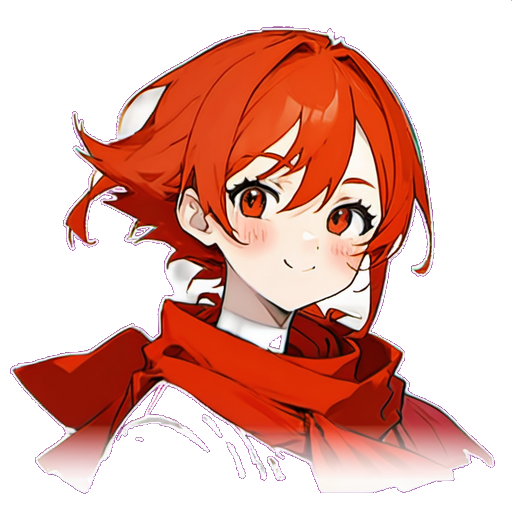
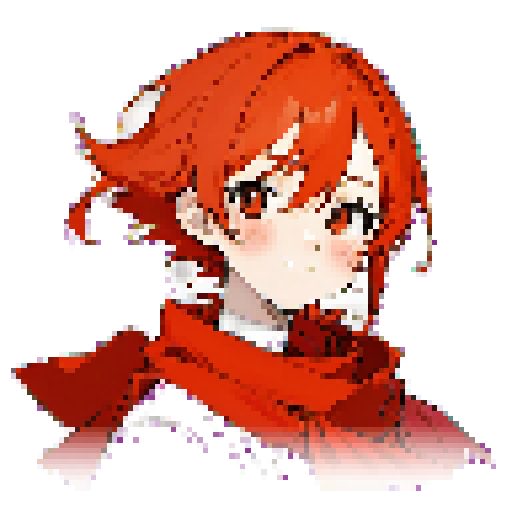
feat(kc): Phase 62-2 portrait pixelization (FIX-10)
SDXL 애니메 일러스트 포트레이트 8종과 픽셀 UI의 스타일 충돌을 단기 해소.
nearest-neighbor 리샘플링으로 96px 가상 해상도 픽셀화 (chef_sprite 92px와 유사).

- scripts/pixelize_portraits.py 신규: 512→96 nearest → 512 업샘플 → 알파 이진화
- mimi/rin/mage/yuki/lao/andre/arjun/poco 8종 적용
- 원본은 _archive/pre_pixelize_20260422_122945/ 에 백업
- 코드 변경 없음 (파일명 유지)
- 장기 과제: Phase 64 PixelLab pro 재발주 (별도 스펙)

QA: tests/screenshots/phase62-2-after/ 3장 검증.

diff --git a/scripts/pixelize_portraits.py b/scripts/pixelize_portraits.py
@@ -1,0 +1,81 @@
+"""
+Phase 62-2 — Portrait Pixelization (단기 임시처리)
+
+AD 리포트 FIX-10: 고해상도 애니메 일러스트 포트레이트 8종이 픽셀 UI와 스타일 충돌하는 문제.
+Phase 64 pro 재발주 전까지의 단기 해결책으로, nearest-neighbor 리샘플링으로
+픽셀화된 버전을 생성한다.
+
+알고리즘:
+- 512×512 원본 → 128×128 nearest 다운샘플 (가상 4×4 픽셀 효과)
+- 128×128 → 512×512 nearest 업샘플
+- 알파 채널을 128 기준으로 이진화하여 가장자리 정리
+
+입력: assets/portraits/portrait_*.png (8종)
+출력: 같은 경로에 덮어쓰기. 원본은 _archive/pre_pixelize_20260422/ 에 백업.
+"""
+
+from __future__ import annotations
+
+import shutil
+import sys
+from datetime import datetime
+from pathlib import Path
+
+from PIL import Image
+
+# 8종 캐릭터 (mimi/rin/mage/yuki/lao/andre/arjun/poco)
+PORTRAIT_IDS = ["mimi", "rin", "mage", "yuki", "lao", "andre", "arjun", "poco"]
+
+# 다운샘플 타깃 — 128이면 ×4 픽셀, 96이면 더 거칠게, 160이면 부드럽게
+# 96은 chef_sprite 92px 해상도와 유사하여 픽셀 UI와 매칭도 최상 (샘플 비교 결과)
+DOWNSCALE = 96
+ALPHA_THRESHOLD = 128
+
+
+def pixelize(src: Path, dst: Path) -> None:
+    """단일 포트레이트를 픽셀화한다."""
+    with Image.open(src) as im:
+        im = im.convert("RGBA")
+        w, h = im.size
+
+        # 다운샘플 (nearest) — 세부 표현 압축
+        small = im.resize((DOWNSCALE, DOWNSCALE), Image.NEAREST)
+        # 업샘플 (nearest) — 선명한 픽셀 블록
+        large = small.resize((w, h), Image.NEAREST)
+
+        # 알파 이진화 — 반투명 안티에일리어스 제거
+        r, g, b, a = large.split()
+        a = a.point(lambda v: 255 if v >= ALPHA_THRESHOLD else 0)
+        out = Image.merge("RGBA", (r, g, b, a))
+        out.save(dst, "PNG")
+
+
+def main() -> int:
+    root = Path(__file__).resolve().parents[1]
+    portraits_dir = root / "assets" / "portraits"
+    if not portraits_dir.exists():
+        print(f"[ERROR] {portraits_dir} not found", file=sys.stderr)
+        return 1
+
+    stamp = datetime.now().strftime("%Y%m%d_%H%M%S")
+    backup_dir = portraits_dir / "_archive" / f"pre_pixelize_{stamp}"
+    backup_dir.mkdir(parents=True, exist_ok=True)
+
+    ok = 0
+    for pid in PORTRAIT_IDS:
+        src = portraits_dir / f"portrait_{pid}.png"
+        if not src.exists():
+            print(f"[SKIP] {src.name} missing")
+            continue
+        shutil.copy2(src, backup_dir / src.name)
+        pixelize(src, src)
+        print(f"[OK] portrait_{pid}.png pixelized ({DOWNSCALE}px virtual)")
+        ok += 1
+
+    print(f"\n{ok}/{len(PORTRAIT_IDS)} portraits pixelized.")
+    print(f"Originals backed up to: {backup_dir}")
+    return 0
+
+
+if __name__ == "__main__":
+    sys.exit(main())

diff --git a/docs/PROJECT.md b/docs/PROJECT.md
@@ -1,6 +1,6 @@
 # Kitchen Chaos Tycoon 기획서
 
-> 최종 업데이트: 2026-04-22 (Phase 62 Unified Warm-Tone Pass 완료)
+> 최종 업데이트: 2026-04-22 (Phase 62-2 Portrait Pixelization 완료)
 
 ## 프로젝트 개요
 
@@ -110,7 +110,7 @@
 - 신규 생성 metadata.json 8건(macaron_knight, sugar_specter, sushi_ninja, tempura_monk, queen_of_taste, sake_oni, yuki_chef, lao_chef)의 id 필드가 "unknown". 향후 PixelLab 재생성 시 업데이트 필요
 - mini_dumpling metadata 92x92 vs 실제 PNG 36x36 불일치 (분열 소환 적 의도적 소형, SpriteLoader 스케일 처리)
 - portrait/스프라이트 텍스처가 Phaser에 로드되지 않아 이모지 fallback으로 동작 중 (Vite 경로 매핑 이슈, Phase 56부터 지속)
-- portrait_arjun.png가 애니메/일러스트 스타일로 생성됨 (기존 portrait은 픽셀아트 스타일). 텍스처 로딩 이슈 해결 시 스타일 불일치 노출 예상
+- portrait 8종이 SDXL 애니메 일러스트로 생성되어 픽셀 UI와 스타일 충돌 → Phase 62-2에서 nearest-neighbor 픽셀화(96px 가상 해상도)로 **단기 해소**. 장기적으로 Phase 64 PixelLab pro 재발주 예정
 - 분기 카드 중 일부 변이(chain/cluster/venom/aura_boost)와 Bond(yuki+soup_pot / andre+delivery / mimi+salt / mimi+spice)는 플래그만 저장되고 소비처 로직 미구현 상태 (tint 시각 효과는 정상, 실제 전투 수치 반영은 부분적). 후속 Quick Fix로 보완 예정
 - `Enemy.js`의 `enemy_slow` 축복 처리가 `require()` 호출로 작성되어 ESM 환경에서 조용히 실패. `bles_enemy_slow` 카드는 실효 미반영 (후속 수정 필요)
 - 분기 레시피 `rewardMultiplier` 및 "반복 등장 N회" 규약은 현재 단순 1회 소비로 통일됨 (카드 descKo의 수치와 실제 동작 불일치, 후속 밸런스 조정 예정)
@@ -120,6 +120,17 @@
 로드맵은 [ROADMAP.md](ROADMAP.md) 참조.
 
 ## 개발 이력 (최근)
+
+### Phase 62-2 — Portrait Pixelization (2026-04-22)
+
+AD 리포트 FIX-10: SDXL 애니메 일러스트 포트레이트 8종과 픽셀 UI의 스타일 충돌을 단기 해소.
+
+- `scripts/pixelize_portraits.py` 신규: 512×512 → 96×96 nearest 다운샘플 → 512×512 nearest 업샘플 → 알파 이진화(threshold 128). 96px는 chef_sprite 92px와 유사한 해상도로 매칭도 최상.
+- 적용 대상: `portrait_mimi/rin/mage/yuki/lao/andre/arjun/poco.png` (8종).
+- 원본은 `assets/portraits/_archive/pre_pixelize_20260422_122945/` 에 백업.
+- 코드 변경 없음 (파일명 유지로 SpriteLoader/DialogueScene/ChefSelectScene/MerchantScene 자동 반영).
+- 장기 과제로 Phase 64 PixelLab pro 재발주(별도 스펙) 예정.
+- QA 스크린샷: `tests/screenshots/phase62-2-after/` 3장.
 
 ### Phase 62 — Unified Warm-Tone Pass (2026-04-22)
 
